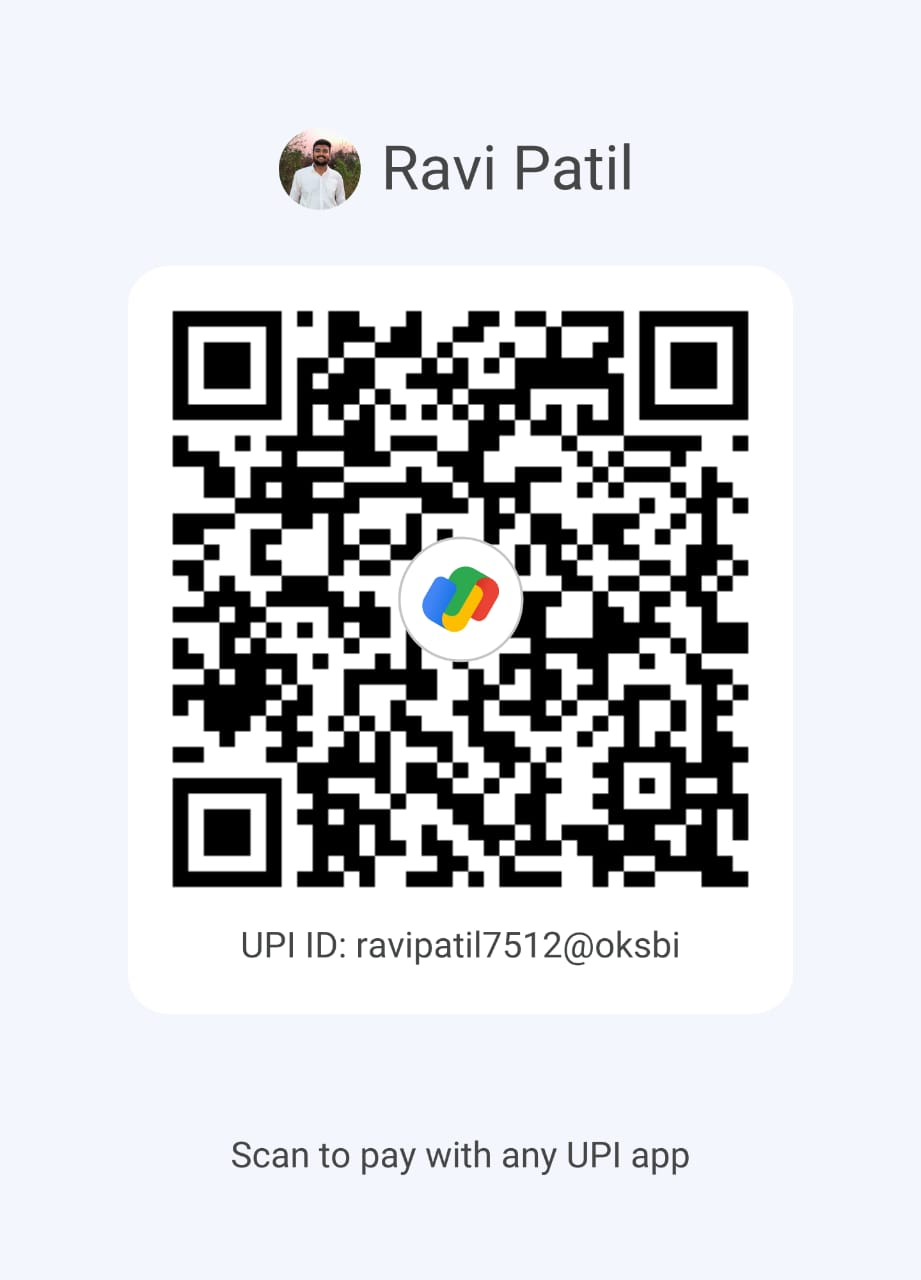
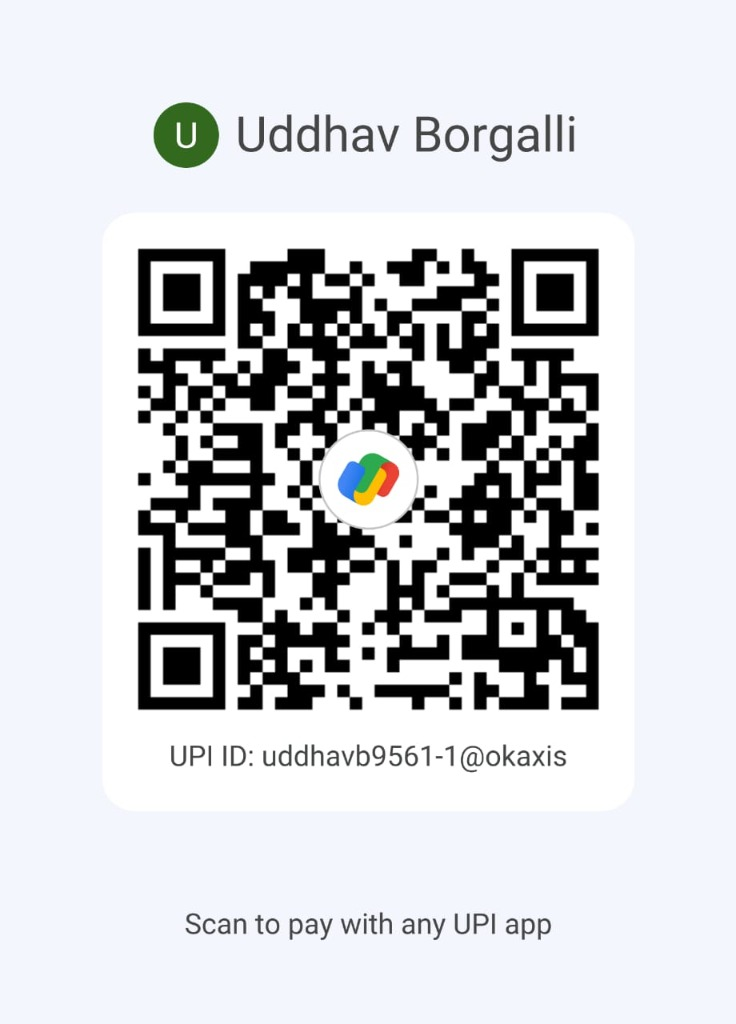
feat: replace QR code and update UPI ID to Uddhav Borgalli (uddhavb9561-1@okaxis)

diff --git a/frontend/src/pages/MembershipPlans.jsx b/frontend/src/pages/MembershipPlans.jsx
@@ -168,7 +168,7 @@ const MembershipPlans = () => {
     const [verifyStatus, setVerifyStatus] = useState('');
     const [upiCopied, setUpiCopied] = useState(false);
 
-    const UPI_ID = 'ravipatil7512@oksbi';
+    const UPI_ID = 'uddhavb9561-1@okaxis';
 
     const copyUpiId = () => {
         navigator.clipboard.writeText(UPI_ID).then(() => {
